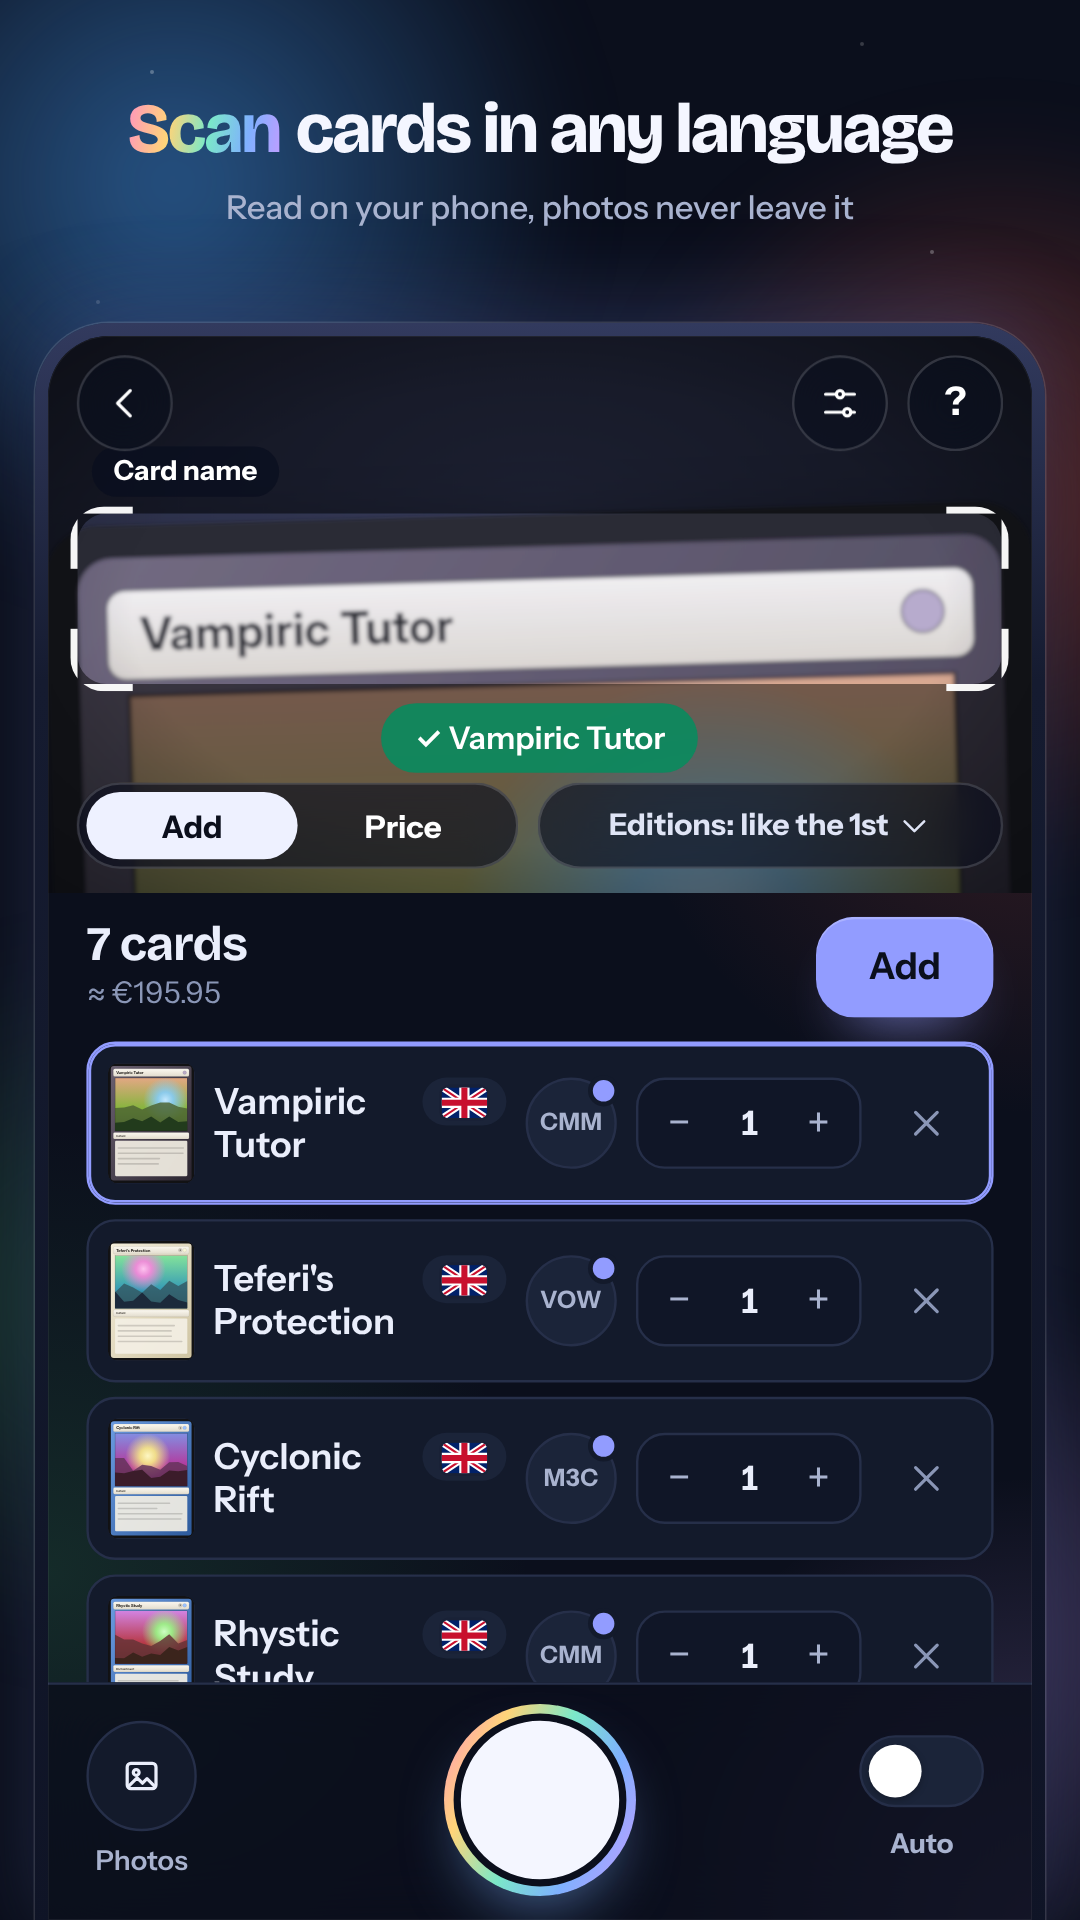
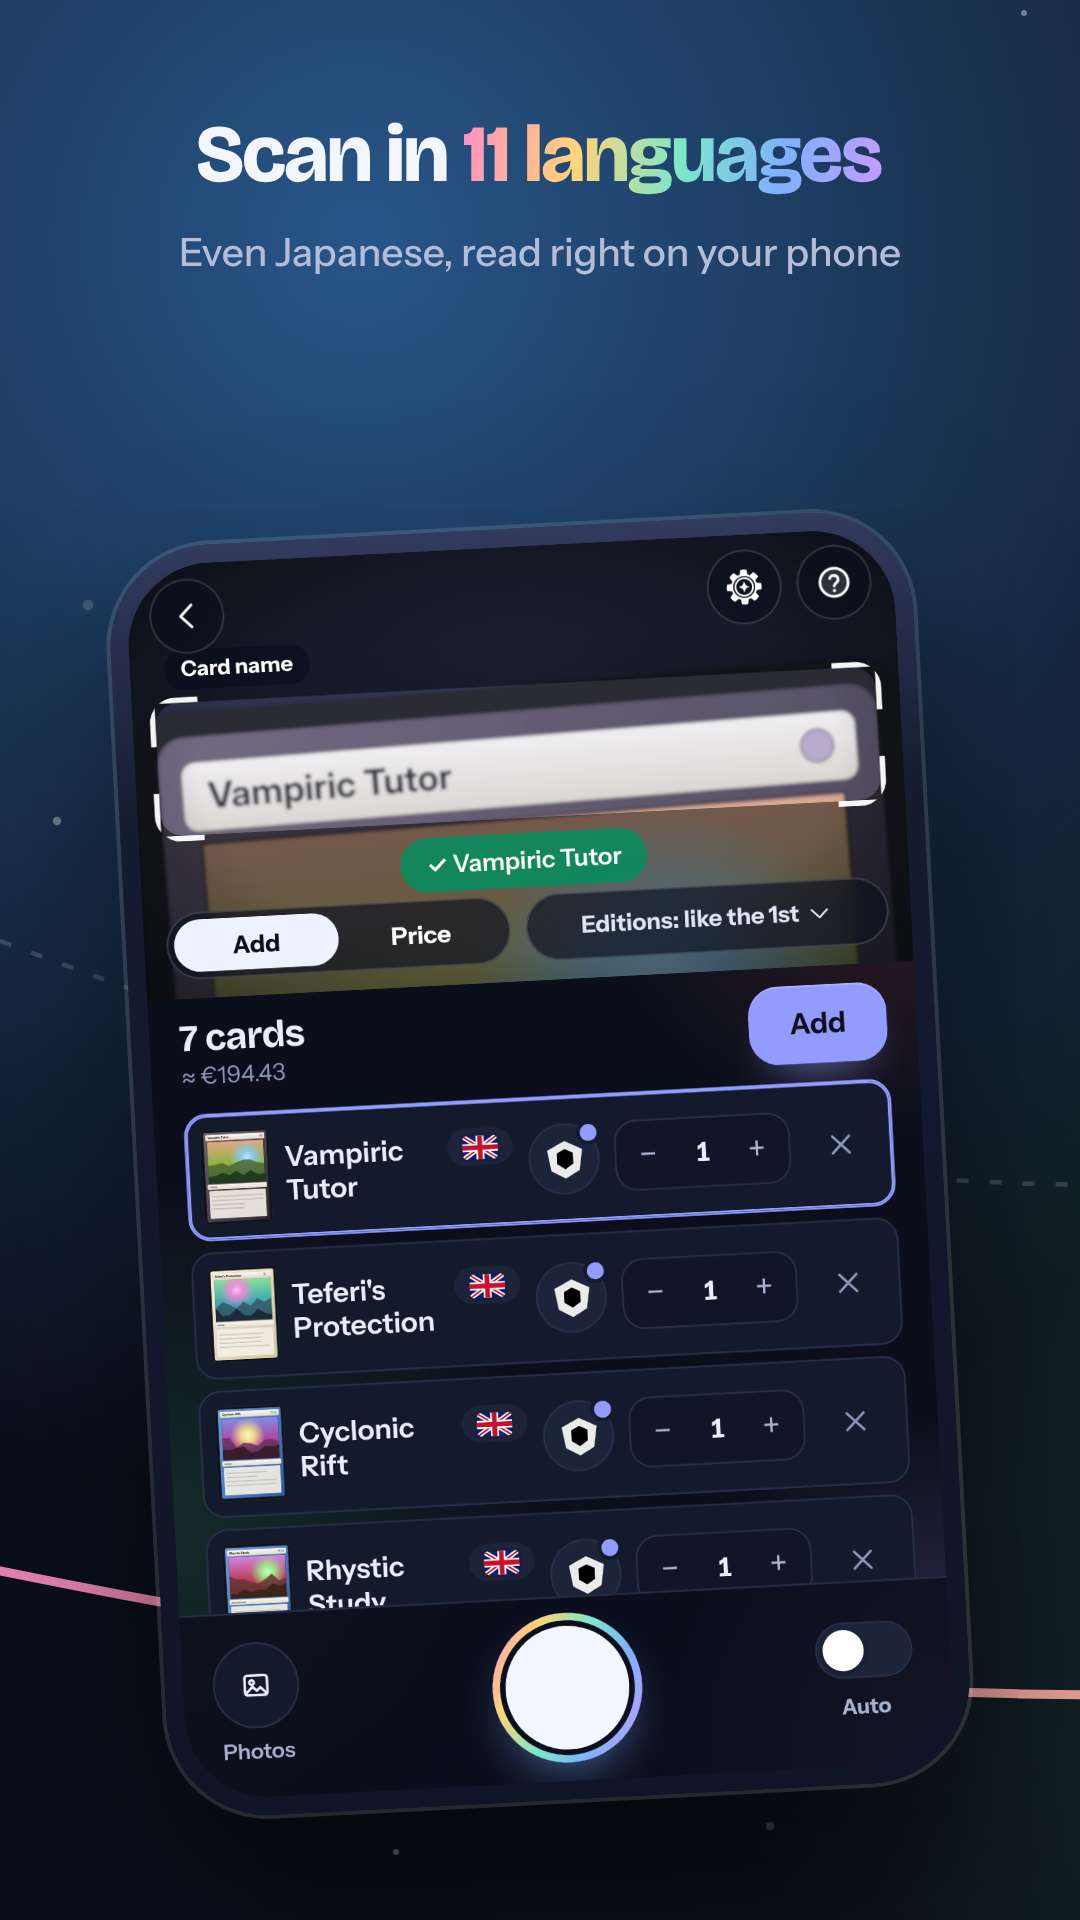
Visuels Play, piste A « Orbite continue » : une orbite foil traverse les 8 captures (scan, cote, classeur, masterset, partie de Commander, decks à monter, Carte mystère, valeur), téléphones inclinés tour à tour, bannière à la même orbite ; 6 langues (légendes et écrans de l'appli) ; vraie Carte myst
Claude-Session: https://claude.ai/code/session_01LvntoUqdRiGnygDM3n2xpJ

diff --git a/docs/store/fiche.md b/docs/store/fiche.md
@@ -1,9 +1,9 @@
 # Fiche Google Play : Mana Orbit
 
-Tout ce qu'il faut copier dans la Play Console, dans les 6 langues de l'appli : français, anglais, allemand, espagnol, italien et portugais du Brésil (**Présence sur le Play Store › Fiche principale › Gérer les traductions › Ajouter vos propres traductions** : fr-FR, en-US, de-DE, es-ES, it-IT, pt-BR). Textes remis à jour le 20 octobre 2026 pour la production (masterset, Carte mystère, niveau et badges, ordinateur ; partie de Commander corrigée) ; visuels à refaire (`docs/a-faire.md`).
+Tout ce qu'il faut copier dans la Play Console, dans les 6 langues de l'appli : français, anglais, allemand, espagnol, italien et portugais du Brésil (**Présence sur le Play Store › Fiche principale › Gérer les traductions › Ajouter vos propres traductions** : fr-FR, en-US, de-DE, es-ES, it-IT, pt-BR). Textes remis à jour le 20 octobre 2026 pour la production (masterset, Carte mystère, niveau et badges, ordinateur ; partie de Commander corrigée).
 Les textes à coller sont dans les blocs gris : copie le bloc entier. Les longueurs sont vérifiées (limites de Google entre parenthèses).
 
-Visuels : dans ce dossier, générés par `node tools/store-assets.mjs` (voir la fin de ce fichier).
+Visuels (piste A, 6 langues, 20 octobre) : dans ce dossier, générés par `node tools/store-assets.mjs` (§ 9).
 
 ---
 
@@ -530,44 +530,46 @@ Avant d'envoyer le formulaire, compare avec les pages officielles (elles changen
 - La politique de confidentialité (`/privacy`) doit déjà parler du bandeau AdMob le jour de la publication. C'est le cas dans la version qui ajoute AdMob ; vérifie qu'elle est bien en ligne.
 - EDHREC et Archidekt (`docs/mails-partenaires.md`) : toujours sans réponse au 20 octobre. Décision (`docs/a-faire.md`) : sans réponse à la production, publier avec crédit et lien (déjà là), lecture hebdomadaire par le serveur seulement, interrupteurs `EDHREC_OFF` / `ARCHIDEKT_OFF` prêts ; en cas de refus, plan B.
 
-## 9. Visuels
+## 9. Visuels (piste A « Orbite continue », choisie le 20 octobre)
+
+Une seule orbite foil, avec les cinq orbes de mana, traverse les 8 captures d'un bout à l'autre (l'espace entre deux captures compris) : en faisant défiler la fiche, l'image continue d'une capture à la suivante. Téléphones inclinés tour à tour à gauche et à droite, légende en haut. Maquettes des trois pistes : canvas « Mana Orbit – visuels Play Store » (claude.ai).
 
 | Fichier | Format | Usage |
 |---|---|---|
-| `feature-graphic.png` | 1024 × 500, PNG sans transparence | Image de présentation (fiche française) |
-| `feature-graphic-en.png` | 1024 × 500 | Image de présentation (fiche anglaise) |
-| `fr/01-scan.png` … `fr/08-deck.png` | 1080 × 1920 (9:16) | Captures du téléphone, fiche française (8 au plus) |
-| `en/01-scan.png` … `en/08-deck.png` | 1080 × 1920 | Captures du téléphone, fiche anglaise |
+| `feature-graphic-<langue>.png` (fr, en, de, es, it, pt) | 1024 × 500, sans transparence | Image de présentation de chaque fiche |
+| `<langue>/01-scan` … `<langue>/08-valeur` (.png, ou .jpg au-delà de 1 Mo) | 1080 × 1920 (9:16) | Les 8 captures du téléphone de chaque fiche, dans cet ordre |
 | `../../pwa/icons/icon-512.png` | 512 × 512 | Icône de l'appli |
-| `developer-header.jpg` | 4096 × 2304, JPEG | Image d'en-tête de la page de développeur (sans texte, valable pour une future appli sœur) ; icône de développeur : celle de l'appli |
+| `developer-header.jpg` | 4096 × 2304, JPEG | Image d'en-tête de la page de développeur ; icône de développeur : celle de l'appli |
 
-Les fichiers sont numérotés dans l'ordre de la fiche : envoie-les dans cet ordre. Le scan d'abord, comme chez tous les concurrents ; les deux premières comptent le plus (ce sont celles des résultats de recherche). L'échange vient en 3e : c'est ce qui distingue Mana Orbit des autres scanners.
+Play Console › Fiche principale › chaque langue › « Captures d'écran du téléphone » : envoie les 8 fichiers **dans l'ordre des numéros** (l'orbite ne se raccorde que dans cet ordre) ; « Image de présentation » : la bannière de la langue.
 
-| # | Écran | Légende FR | Légende EN |
-|---|---|---|---|
-| 1 | Scan | Scanne tes cartes VF ou VO · Lues sur ton téléphone, la photo n'est jamais envoyée | Scan cards in any language · Read on your phone, photos never leave it |
-| 2 | Accueil | La cote de ta collection · Au prix tendance Cardmarket, mise à jour chaque jour | Your collection, valued · Cardmarket trend prices, updated daily |
-| 3 | Échange | Tes échanges en un lien · Lien ou QR code, doublons et recherches toujours à jour | Trade with one link · Link or QR code, spares and wants always up to date |
-| 4 | Decks à monter | Les decks que tu peux monter · Decks Commander comparés à ta collection | Decks you can build · Commander decks matched to your cards |
-| 5 | Valeur dans le temps | Suis sa valeur jour après jour · Courbe, variations à 7 et 30 jours, alertes de prix | Watch its value grow · Daily chart, 7- and 30-day changes, price alerts |
-| 6 | Collection (langues) | Chaque carte, sa langue · VF, VO, japonais… et son prix Cardmarket | Every copy, its language · English, French, Japanese… and its Cardmarket price |
-| 7 | Prix d'une liste | Colle une liste, vois le prix · Sans les cartes que tu as déjà, prête pour Cardmarket | Paste a list, see the price · Minus the cards you own, ready for Cardmarket |
-| 8 | Viewer de deck | Chaque deck en un coup d'œil · Valeur, courbe de mana, main de départ | Every deck at a glance · Value, mana curve, opening hand |
+| # | Fichier | Écran | Légende FR | Légende EN |
+|---|---|---|---|---|
+| 1 | `01-scan` | Scan | Scanne en 11 langues · Même le japonais, lu sur ton téléphone | Scan in 11 languages · Even Japanese, read right on your phone |
+| 2 | `02-cote` | Accueil | La cote de ta collection · Au prix Cardmarket, mise à jour chaque jour | Your collection, valued · Cardmarket prices, updated every day |
+| 3 | `03-classeur` | Classeur d'échange | Ton classeur en un lien · Doublons et recherches, toujours à jour | Your binder, one link · Spares and wants, always up to date |
+| 4 | `04-masterset` | Masterset | Complète tes extensions · Ce qui manque, en noir et blanc, avec son prix | Complete your sets · Missing cards in black and white, with their price |
+| 5 | `05-partie` | Compteur de la partie | Ta table de Commander · Vie, blessures de commandant, poison, monarque | Your Commander table · Life, commander damage, poison, monarch |
+| 6 | `06-decks` | Decks à monter | Les decks que tu peux monter · Decks Commander comparés à ta collection | Decks you can build · Commander decks matched to your collection |
+| 7 | `07-carte-mystere` | Carte mystère (étape 4) | La Carte mystère du jour · Devine-la avant les autres, chaque soir à 18 h | The daily Mystery card · Guess it before everyone else, every evening |
+| 8 | `08-valeur` | Stats, courbe de valeur | Sa valeur, jour après jour · Courbe, variations à 7 et 30 jours, alertes de prix | Its value, day by day · Chart, 7- and 30-day changes, price alerts |
 
-Les captures sont celles de la vraie appli (thème sombre), vue par un visiteur sans compte ni token CardTrader, comme la plupart des utilisateurs : prix Cardmarket seulement, aucune offre CardTrader (Google refuse les visuels qui promettent ce que l'appli ne donne pas). Collection d'exemple : 515 cartes (1 030 exemplaires), environ 2 340 €, quatre decks. Les images des cartes y sont des cartes factices dessinées par le script (aucune illustration réelle) ; les vrais téléphones affichent les images Scryfall. La bannière ne contient ni logo ni symbole de Wizards of the Coast, ni écran de l'appli (rien à refaire quand l'interface change). Aucune capture ne montre le bandeau publicitaire.
+Allemand, espagnol, italien, portugais : légendes dans `SHOTS` (`tools/store-assets.mjs`), écrans de l'appli dans la langue.
 
-Si EDHREC ou Archidekt refusent : remplace la capture 4 par l'éditeur de deck (`SHOTS` dans `tools/store-assets.mjs`).
+Les captures sont celles de la vraie appli (thème sombre), vue par un visiteur sans token CardTrader, comme la plupart des utilisateurs : prix Cardmarket seulement, aucune offre CardTrader (Google refuse les visuels qui promettent ce que l'appli ne donne pas). Collection d'exemple : 505 cartes, environ 2 330 €, quatre decks. Les images des cartes sont des cartes factices dessinées par le script (aucune illustration réelle), Carte mystère comprise (servie par le vrai serveur du jeu, compte connecté par le faux Firebase des tests) ; les vrais téléphones affichent les images Scryfall. Ni logo ni symbole de Wizards of the Coast. Aucune capture ne montre le bandeau publicitaire.
+
+Si EDHREC ou Archidekt refusent : remplace la capture 6 par l'éditeur de deck (`SHOTS` dans `tools/store-assets.mjs`).
 Après le lancement : teste la description courte et la première capture avec les tests de fiche de la Play Console (« Store listing experiments » en anglais).
 
 ### Refaire les visuels
 
 ```
-node tools/store-assets.mjs            # tout : bannières + 16 captures (≈ 2 min)
-node tools/store-assets.mjs feature    # bannières seulement
-node tools/store-assets.mjs shots en   # captures anglaises seulement
-RAW=1 node tools/store-assets.mjs shots   # garde aussi les écrans bruts (shots/store/, non versionné)
-node tools/store-assets.mjs raw fr      # écrans bruts seulement, avec classeur, partie et masterset (MORE) : maquettes
+node tools/store-assets.mjs              # tout : 8 captures + bannière, 6 langues (≈ 1 min par langue)
+node tools/store-assets.mjs shots de     # une langue
+node tools/store-assets.mjs feature      # bannières seulement
+RAW=1 node tools/store-assets.mjs shots  # garde aussi les écrans bruts (shots/store/, non versionné)
+node tools/store-assets.mjs raw fr       # écrans bruts seulement (maquettes)
 ```
 
-Prérequis : `tests/node_modules` installé (Playwright), Chromium dans `/opt/pw-browsers/chromium` (ou la variable `CHROMIUM`), port 18980 libre. Aucune connexion Internet : le script sert l'appli avec le monde des tests (token CardTrader du serveur réservé à un compte, comme en production) et simule Scryfall. Les polices de l'appli (Bricolage Grotesque, Instrument Sans, licence OFL) sont dans `tools/fonts/` ; sans elles, le script prend les polices du système.
-Les légendes, les données d'exemple (collection, decks, historique) et l'ordre des écrans sont en tête de `tools/store-assets.mjs` (`SHOTS`, `DB_TXT`, `DECKS`).
+Prérequis : `tests/node_modules` installé (Playwright), Chromium dans `/opt/pw-browsers/chromium` (ou la variable `CHROMIUM`), port 18980 libre. Aucune connexion Internet : le script sert l'appli avec le monde des tests (token CardTrader du serveur réservé à un compte, comme en production, Carte mystère allumée avec son faux Scryfall) et simule Scryfall côté navigateur. Les polices de l'appli (Bricolage Grotesque, Instrument Sans, licence OFL) sont dans `tools/fonts/` ; sans elles, le script prend les polices du système.
+Les légendes, les données d'exemple (collection, decks, historique, extension du masterset, carte du jour) et l'ordre des écrans sont dans `tools/store-assets.mjs` (`SHOTS`, `DB_TXT`, `DECKS`, `MS_CARDS`, `DLY_CARD`).

diff --git a/docs/a-faire.md b/docs/a-faire.md
@@ -2,7 +2,7 @@
 
 ## Priorités (mises à jour le 20 octobre au soir)
 - **Prochaine étape : le lancement officiel** (conversation dédiée) : fiche Play (textes, visuels stylisés, 6 langues), formulaire « Demander l'accès à la production », puis les réglages du 29 octobre (`RATE_ASK`, `ADMOB_BANNER_ID`, `APK_LATEST=7`).
-  - **Fait le 20 octobre (soir)** : textes de la fiche remis à jour dans les 6 langues (`docs/store/fiche.md` § 0 à 4 : masterset, Carte mystère, badges, ordinateur, partie de Commander corrigée ; notes de version de la production ; **langue par défaut à passer en en-US**) ; réponses du formulaire de production et étapes du jour J (`docs/store/production.md`) ; sécurité des données : lignes Carte mystère à vérifier (§ 8). Reste : visuels.
+  - **Fait le 20 octobre (soir)** : textes de la fiche remis à jour dans les 6 langues (`docs/store/fiche.md` § 0 à 4 : masterset, Carte mystère, badges, ordinateur, partie de Commander corrigée ; notes de version de la production ; **langue par défaut à passer en en-US**) ; réponses du formulaire de production et étapes du jour J (`docs/store/production.md`) ; sécurité des données : lignes Carte mystère à vérifier (§ 8). **Visuels faits le 20 octobre** : piste A « Orbite continue » choisie par le propriétaire parmi 3 maquettes, 8 captures + bannière dans les 6 langues (`docs/store/<langue>/`, `feature-graphic-<langue>.png`, fiche § 9) : à envoyer dans la Play Console, dans l'ordre des numéros. Connexion Google web avec `manaorbit.app` : en essai sur `https://manaorbit.app/test`, à ouvrir à tous une fois validée.
 - **Test fermé en cours** : lancé vers le 15 octobre, 12 testeurs inscrits → 14 jours atteints vers le 29 octobre (7 jours restants au 20 octobre au soir), puis Play Console › Demander l'accès à la production (sortie publique visée fin octobre).
 - **APK 1.0.6 (versionCode 7)** : construite, testée et envoyée le 20 octobre ; **en cours d'examen par Google**. Notes de version (fr-FR / en-US) écrites le 20 octobre. Une fois en ligne : `APK_LATEST=7` sur Hostinger (les 1.0.5 verront « Mise à jour de l'appli »).
 - **Scan chinois, japonais, coréen, russe** : corrigé le 19 octobre (voir ci-dessous) ; lecture native ML Kit dans la 1.0.6 ; retours des testeurs à suivre.
